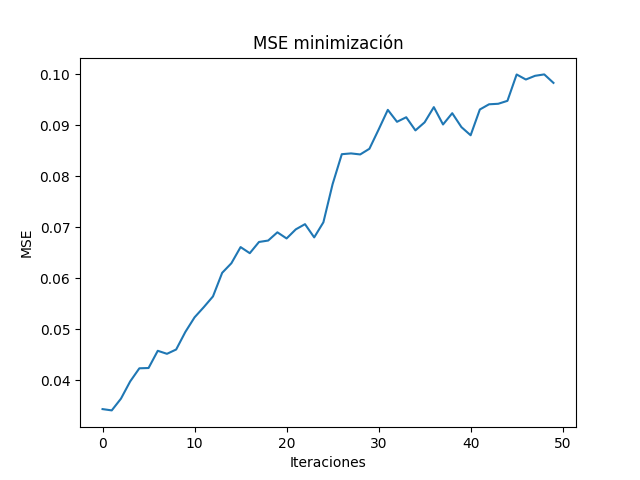
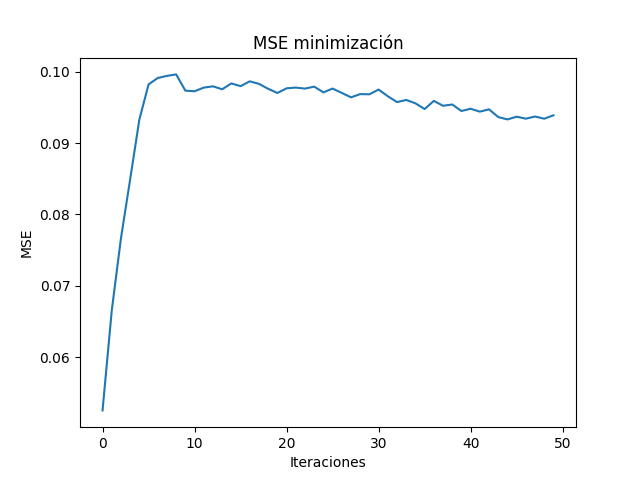
Update trn.py

diff --git a/utility.py b/utility.py
@@ -64,42 +64,43 @@ def iniW(next, prev):
     
 
 # STEP 1: Feed-forward of AE
-def ae_forward(autoencoder, X, params):    
-    Z1 = autoencoder['W'][0] @ X
+def ae_forward(ae, X, params):    
+    Z1 = ae['W'][0] @ X
     H = act_function(Z1, params['encoder_act_func'])
     
-    Z2 = autoencoder['W'][1] @ H
+    Z2 = ae['W'][1] @ H
     X_prime = Z2 # act_function(Z2, -1) # f(x) = x
 
-    autoencoder['Z'] = [Z1, Z2]
-    autoencoder['A'] = [X, H, X_prime]
+    ae['Z'] = [Z1, Z2]
+    ae['A'] = [X, H, X_prime]
 
     return X_prime
 
 
 def ae_backward(ae, params):
     Xe = ae['A'][0]
+
     Wd = calculate_pinv(Xe, ae['W'][0], params['p_inverse_param'])
     
     gW1 = gradW1(ae, params)
 
     # RMSProp (Update We)
-    We = updW1_rmsprop(ae, gW1, params)
+    We, Ve = updW1_rmsprop(ae, gW1, params)
 
     # pre-calculated pseudoinverse (Update Wd)
     ae['W'][1] = Wd
 
-    return We
+    return ae['W'][0]
     
- 
    
 # Calculate Pseudo-inverse
 def calculate_pinv(X, We, C):
     H = We @ X
     A = (H @ H.T) + (np.identity(H.T.shape[1]) / C)
-    U, S, V = np.linalg.svd(A, full_matrices=False)
-    A_inv = V.T @ np.linalg.inv(np.diag(S)) @ U.T
-    Wd = X @ H.T @ A_inv
+    #U, S, V = np.linalg.svd(A, full_matrices=False)
+    #A_inv = V.T @ np.linalg.inv(np.diag(S)) @ U.T
+    #Wd = X @ H.T @ A_inv
+    Wd = X @ H.T @ np.linalg.pinv(A)
     return Wd
 
 
@@ -123,16 +124,16 @@ def ae_summary(autoencoder, force_exit=False):
 def gradW1(ae, params):
     #ae_summary(autoencoder, force_exit=True)
     encoder_act_func = params['encoder_act_func']
+
+    E = (ae['A'][2] - ae['A'][0]) # (X' - X)
     
-    e = (ae['A'][2] - ae['A'][0]) # (X' - X)
+    delta = E
     
-    delta = e * ae['Z'][1]
-    
-    gW1 = (ae['W'][1].T @ delta) * (deriva_act(ae['Z'][0], encoder_act_func))
+    gW1 = (ae['W'][1].T @ delta) * deriva_act(ae['Z'][0], encoder_act_func)
     gW1 = gW1 @ ae['A'][0].T
 
     assert gW1.shape == ae['W'][0].shape, "TEST FAILED: Dimensions of encoder weight and gradient must be equal."
-    
+
     return gW1
 
 
@@ -141,11 +142,11 @@ def updW1_rmsprop(ae, gW1, params):
     beta = 0.9
     epsilon = 1e-8
     
-    ae['V'][0] = (beta * ae['V'][0]) + ((1 - beta) * np.square(gW1))
+    ae['V'][0] = (beta * ae['V'][0]) + ((1 - beta) * (gW1**2))
     grms = (1 / np.sqrt(ae['V'][0] + epsilon)) * gW1
     ae['W'][0] = ae['W'][0] - (params['sae_learning_rate'] * grms)
     
-    return ae['W'][0]
+    return ae['W'][0], ae['V'][0]
 
 
 # Update Softmax's weight via RMSprop

diff --git a/trn.py b/trn.py
@@ -29,7 +29,7 @@ def train_softmax(x, y, par1, par2):
 def get_batch_indexes(minibatch_size, n):
     start_index = n * minibatch_size
     end_index = start_index + minibatch_size
-    return np.arange(start_index, end_index, 1).astype(int)
+    return np.arange(start_index, end_index).astype(int)
 
 
 # AE's Training with miniBatch
@@ -43,9 +43,11 @@ def train_ae_batch(ae, X, params):
         Xe = X[:, idx]
         
         X_prime = ut.ae_forward(ae, Xe, params)
-        We = ut.ae_backward(ae, params)
 
         cost = (np.sum((X_prime - Xe) ** 2)) / (2 * minibatch_size)
+
+        We = ut.ae_backward(ae, params) # We, Wd and V updated at this
+
         costs.append(cost) 
         
     print(f'Finished {amount_of_batches} batches with mean cost: {np.mean(costs)}')
@@ -80,7 +82,7 @@ def train_ae(X, amount_of_nodes, params):
         if i % 10 == 0 and i != 0:
             print(f'Iteration: {i}', mse[i])
 
-    return We, mse
+    return We, np.array(mse)
 
 
 #SAE's Training
